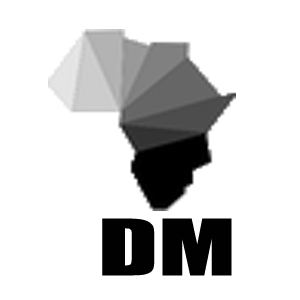
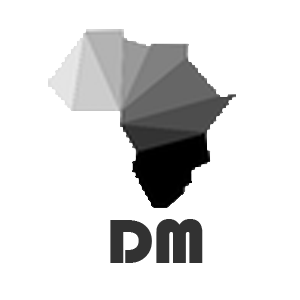
image size reduces.

diff --git a/index.html b/index.html
@@ -152,24 +152,24 @@
 
          <div class="col-sm-6 col-md-3 col-lg-3 schooling">
           <div class="portfolio-item">
-            <div class="hover-bg"> <a href="img/portfolio/schools/003.jpg" rel="prettyPhoto">
+            <div class="hover-bg"> <a href="img/portfolio/schools/003B.jpg" rel="prettyPhoto">
               <div class="hover-text">
                 <h4>SCHOOLING</h4>
                 <!-- <small>Data Science</small> -->
                 <div class="clearfix"></div>
               </div>
-              <img src="img/portfolio/schools/003.jpg" class="img-responsive" alt="There is power in learning"> </a> </div>
+              <img src="img/portfolio/schools/003B.jpg" class="img-responsive" alt="There is power in learning"> </a> </div>
           </div>
         </div>
         <div class="col-sm-6 col-md-3 col-lg-3 hospital">
           <div class="portfolio-item">
-            <div class="hover-bg"> <a href="img/portfolio/hospital/001.jpg" rel="prettyPhoto">
+            <div class="hover-bg"> <a href="img/portfolio/hospital/001B.jpg" rel="prettyPhoto">
               <div class="hover-text">
                 <h4>Hospital</h4>
                 <!-- <small>Project</small> -->
                 <div class="clearfix"></div>
               </div>
-              <img src="img/portfolio/hospital/001.jpg" class="img-responsive" alt="Life.❤"> </a> </div>
+              <img src="img/portfolio/hospital/001B.jpg" class="img-responsive" alt="Life.❤"> </a> </div>
           </div>
         </div>
         <div class="col-sm-6 col-md-3 col-lg-3 electronics">
@@ -185,68 +185,68 @@
         </div>
         <div class="col-sm-6 col-md-3 col-lg-3 schooling">
           <div class="portfolio-item">
-            <div class="hover-bg"> <a href="img/portfolio/schools/w2.jpg" rel="prettyPhoto">
+            <div class="hover-bg"> <a href="img/portfolio/schools/w2B.jpg" rel="prettyPhoto">
               <div class="hover-text">
                 <h4>SCHOOLING</h4>
                 <!-- <small>Data Science</small> -->
                 <div class="clearfix"></div>
               </div>
-              <img src="img/portfolio/schools/w2.jpg" class="img-responsive" alt="There is power in learning"> </a> </div>
+              <img src="img/portfolio/schools/w2B.jpg" class="img-responsive" alt="There is power in learning"> </a> </div>
           </div>
         </div>
         <div class="col-sm-6 col-md-3 col-lg-3 charity">
           <div class="portfolio-item">
-            <div class="hover-bg"> <a href="img/portfolio/charity/S5.jpg" rel="prettyPhoto">
+            <div class="hover-bg"> <a href="img/portfolio/charity/s5.jpg" rel="prettyPhoto">
               <div class="hover-text">
                 <h4>CHARITY</h4>
                 <!-- <small>Web development</small> -->
                 <div class="clearfix"></div>
               </div>
-              <img src="img/portfolio/charity/S5.jpg" class="img-responsive" alt="Charity is power"> </a> </div>
+              <img src="img/portfolio/charity/s5.jpg" class="img-responsive" alt="Charity is power"> </a> </div>
           </div>
         </div>
         <div class="col-sm-6 col-md-3 col-lg-3 hospital">
           <div class="portfolio-item">
-            <div class="hover-bg"> <a href="img/portfolio/hospital/003.jpg" rel="prettyPhoto">
+            <div class="hover-bg"> <a href="img/portfolio/hospital/003B.jpg" rel="prettyPhoto">
               <div class="hover-text">
                 <h4>Hospital</h4>
                 <!-- <small>Project</small> -->
                 <div class="clearfix"></div>
               </div>
-              <img src="img/portfolio/hospital/003.jpg" class="img-responsive" alt="Life.❤"> </a> </div>
+              <img src="img/portfolio/hospital/003B.jpg" class="img-responsive" alt="Life.❤"> </a> </div>
           </div>
         </div>
         <div class="col-sm-6 col-md-3 col-lg-3 electronics">
           <div class="portfolio-item">
-            <div class="hover-bg"> <a href="img/portfolio/electronics/003.jpg" rel="prettyPhoto">
+            <div class="hover-bg"> <a href="img/portfolio/electronics/003B.jpg" rel="prettyPhoto">
               <div class="hover-text">
                 <h4>ELECTRONICS</h4>
                 <!-- <small>App Development</small> -->
                 <div class="clearfix"></div>
               </div>
-              <img src="img/portfolio/electronics/003.jpg" class="img-responsive" alt="Future of electronics"> </a> </div>
+              <img src="img/portfolio/electronics/003B.jpg" class="img-responsive" alt="Future of electronics"> </a> </div>
           </div>
         </div>
         <div class="col-sm-6 col-md-3 col-lg-3 charity">
           <div class="portfolio-item">
-            <div class="hover-bg"> <a href="img/portfolio/charity/8.jpg" rel="prettyPhoto">
+            <div class="hover-bg"> <a href="img/portfolio/charity/8B.jpg" rel="prettyPhoto">
               <div class="hover-text">
                 <h4>CHARITY</h4>
                 <!-- <small>WebApp designing</small> -->
                 <div class="clearfix"></div>
               </div>
-              <img src="img/portfolio/charity/8.jpg" class="img-responsive" alt="Charity is power"> </a> </div>
+              <img src="img/portfolio/charity/8B.jpg" class="img-responsive" alt="Charity is power"> </a> </div>
           </div>
         </div>
         <div class="col-sm-6 col-md-3 col-lg-3 electronics">
           <div class="portfolio-item">
-            <div class="hover-bg"> <a href="img/portfolio/electronics/001.jpg" rel="prettyPhoto">
+            <div class="hover-bg"> <a href="img/portfolio/electronics/001B.jpg" rel="prettyPhoto">
               <div class="hover-text">
                 <h4>ELECTRONICS</h4>
                 <!-- <small>App Development</small> -->
                 <div class="clearfix"></div>
               </div>
-              <img src="img/portfolio/electronics/001.jpg" class="img-responsive" alt="Future of electronics"> </a> </div>
+              <img src="img/portfolio/electronics/001B.jpg" class="img-responsive" alt="Future of electronics"> </a> </div>
           </div>
         </div>
         <div class="col-sm-6 col-md-3 col-lg-3 schooling">
@@ -262,61 +262,61 @@
         </div>
         <div class="col-sm-6 col-md-3 col-lg-3 estate">
           <div class="portfolio-item">
-            <div class="hover-bg"> <a href="img/portfolio/estate/005.jpg" rel="prettyPhoto">
+            <div class="hover-bg"> <a href="img/portfolio/estate/005B.jpg" rel="prettyPhoto">
               <div class="hover-text">
                 <h4>ESTATE</h4>
                 <!-- <small>Website services</small> -->
                 <div class="clearfix"></div>
               </div>
-              <img src="img/portfolio/estate/005.jpg" class="img-responsive" alt="Estate in our vision"> </a> </div>
+              <img src="img/portfolio/estate/005B.jpg" class="img-responsive" alt="Estate in our vision"> </a> </div>
           </div>
         </div>
 
         <div class="col-sm-6 col-md-3 col-lg-3 charity">
           <div class="portfolio-item">
-            <div class="hover-bg"> <a href="img/portfolio/charity/h4.jpg" rel="prettyPhoto">
+            <div class="hover-bg"> <a href="img/portfolio/charity/h4B.jpg" rel="prettyPhoto">
               <div class="hover-text">
                 <h4>CHARITY</h4>
                 <!-- <small>WebApp designing</small> -->
                 <div class="clearfix"></div>
               </div>
-              <img src="img/portfolio/charity/h4.jpg" class="img-responsive" alt="Charity is power"> </a> </div>
+              <img src="img/portfolio/charity/h4B.jpg" class="img-responsive" alt="Charity is power"> </a> </div>
           </div>
         </div>
 
 
         <div class="col-sm-6 col-md-3 col-lg-3 electronics">
           <div class="portfolio-item">
-            <div class="hover-bg"> <a href="img/portfolio/electronics/002.jpg" rel="prettyPhoto">
+            <div class="hover-bg"> <a href="img/portfolio/electronics/002B.jpg" rel="prettyPhoto">
               <div class="hover-text">
                 <h4>ELECTRONICS</h4>
                 <!-- <small>App Development</small> -->
                 <div class="clearfix"></div>
               </div>
-              <img src="img/portfolio/electronics/002.jpg" class="img-responsive" alt="Future of electronics"> </a> </div>
+              <img src="img/portfolio/electronics/002B.jpg" class="img-responsive" alt="Future of electronics"> </a> </div>
           </div>
         </div>
 
         <div class="col-sm-6 col-md-3 col-lg-3 schooling">
           <div class="portfolio-item">
-            <div class="hover-bg"> <a href="img/portfolio/schools/S4.jpg" rel="prettyPhoto">
+            <div class="hover-bg"> <a href="img/portfolio/schools/s4.jpg" rel="prettyPhoto">
               <div class="hover-text">
                 <h4>SCHOOLING</h4>
                 <!-- <small>Organized service</small> -->
                 <div class="clearfix"></div>
               </div>
-              <img src="img/portfolio/schools/S4.jpg" class="img-responsive" alt="There is power in learnings"> </a> </div>
+              <img src="img/portfolio/schools/s4.jpg" class="img-responsive" alt="There is power in learnings"> </a> </div>
           </div>
         </div>
         <div class="col-sm-6 col-md-3 col-lg-3 estate">
           <div class="portfolio-item">
-            <div class="hover-bg"> <a href="img/portfolio/estate/004.jpg" rel="prettyPhoto">
+            <div class="hover-bg"> <a href="img/portfolio/estate/004B.jpg" rel="prettyPhoto">
               <div class="hover-text">
                 <h4>ESTATE</h4>
                 <!-- <small>Website services</small> -->
                 <div class="clearfix"></div>
               </div>
-              <img src="img/portfolio/estate/004.jpg" class="img-responsive" alt="Estate in our vision"> </a> </div>
+              <img src="img/portfolio/estate/004B.jpg" class="img-responsive" alt="Estate in our vision"> </a> </div>
           </div>
         </div>
         <div class="col-sm-6 col-md-3 col-lg-3 charity">
@@ -333,71 +333,71 @@
 
         <div class="col-sm-6 col-md-3 col-lg-3 schooling">
           <div class="portfolio-item">
-            <div class="hover-bg"> <a href="img/portfolio/schools/001.jpg" rel="prettyPhoto">
+            <div class="hover-bg"> <a href="img/portfolio/schools/001B.jpg" rel="prettyPhoto">
               <div class="hover-text">
                 <h4>SCHOOLING</h4>
                 <!-- <small>Data Science</small> -->
                 <div class="clearfix"></div>
               </div>
-              <img src="img/portfolio/schools/001.jpg" class="img-responsive" alt="There is power in learning"> </a> </div>
+              <img src="img/portfolio/schools/001B.jpg" class="img-responsive" alt="There is power in learning"> </a> </div>
           </div>
         </div>
 
         <div class="col-sm-6 col-md-3 col-lg-3 electronics">
           <div class="portfolio-item">
-            <div class="hover-bg"> <a href="img/portfolio/electronics/004.jpg" rel="prettyPhoto">
+            <div class="hover-bg"> <a href="img/portfolio/electronics/004B.jpg" rel="prettyPhoto">
               <div class="hover-text">
                 <h4>ELECTRONICS</h4>
                 <!-- <small>App Development</small> -->
                 <div class="clearfix"></div>
               </div>
-              <img src="img/portfolio/electronics/004.jpg" class="img-responsive" alt="Future of electronics"> </a> </div>
+              <img src="img/portfolio/electronics/004B.jpg" class="img-responsive" alt="Future of electronics"> </a> </div>
           </div>
         </div>
         <div class="col-sm-6 col-md-3 col-lg-3 estate">
           <div class="portfolio-item">
-            <div class="hover-bg"> <a href="img/portfolio/estate/001.jpg" rel="prettyPhoto">
+            <div class="hover-bg"> <a href="img/portfolio/estate/001B.jpg" rel="prettyPhoto">
               <div class="hover-text">
                 <h4>ESTATE</h4>
                 <!-- <small>Website services</small> -->
                 <div class="clearfix"></div>
               </div>
-              <img src="img/portfolio/estate/001.jpg" class="img-responsive" alt="Estate in our vision"> </a> </div>
+              <img src="img/portfolio/estate/001B.jpg" class="img-responsive" alt="Estate in our vision"> </a> </div>
           </div>
         </div>
         <div class="col-sm-6 col-md-3 col-lg-3 charity">
           <div class="portfolio-item">
-            <div class="hover-bg"> <a href="img/portfolio/charity/featured-img2.jpg" rel="prettyPhoto">
+            <div class="hover-bg"> <a href="img/portfolio/charity/featured-img2B.jpg" rel="prettyPhoto">
               <div class="hover-text">
                 <h4>CHARITY</h4>
                 <!-- <small>WebApp designing</small> -->
                 <div class="clearfix"></div>
               </div>
-              <img src="img/portfolio/charity/featured-img2.jpg" class="img-responsive" alt="Charity is power"> </a> </div>
+              <img src="img/portfolio/charity/featured-img2B.jpg" class="img-responsive" alt="Charity is power"> </a> </div>
           </div>
         </div>
 
          <div class="col-sm-6 col-md-3 col-lg-3 schooling">
           <div class="portfolio-item">
-            <div class="hover-bg"> <a href="img/portfolio/schools/002.jpg" rel="prettyPhoto">
+            <div class="hover-bg"> <a href="img/portfolio/schools/002B.jpg" rel="prettyPhoto">
               <div class="hover-text">
                 <h4>SCHOOLING</h4>
                 <!-- <small>Data Science</small> -->
                 <div class="clearfix"></div>
               </div>
-              <img src="img/portfolio/schools/002.jpg" class="img-responsive" alt="There is power in learning"> </a> </div>
+              <img src="img/portfolio/schools/002B.jpg" class="img-responsive" alt="There is power in learning"> </a> </div>
           </div>
         </div>
 
         <div class="col-sm-6 col-md-3 col-lg-3 estate">
           <div class="portfolio-item">
-            <div class="hover-bg"> <a href="img/portfolio/estate/007.jpg" rel="prettyPhoto">
+            <div class="hover-bg"> <a href="img/portfolio/estate/007B.jpg" rel="prettyPhoto">
               <div class="hover-text">
                 <h4>ESTATE</h4>
                 <!-- <small>Website services</small> -->
                 <div class="clearfix"></div>
               </div>
-              <img src="img/portfolio/estate/007.jpg" class="img-responsive" alt="Estate in our vision"> </a> </div>
+              <img src="img/portfolio/estate/007B.jpg" class="img-responsive" alt="Estate in our vision"> </a> </div>
           </div>
         </div>
       </div>
@@ -415,7 +415,7 @@
       <p>We have a choice, whether to be a mad man or a bold genius. What’s the difference? A mad man is somebody who does the same action over and over and over for an unknown destiny. A bold genius is somebody who does the same action over and over and over again for a known destiny.</p>
     </div>
     <div class="row">
-      	<div class="col-md-6"> <img draggable="false" src="img/about/airway1.jpg" class="img-responsive"> </div>
+      	<div class="col-md-6"> <img draggable="false" src="img/about/airway1B.jpg" class="img-responsive"> </div>
       	<div class="col-md-6">
         	<div class="about-text" style="padding-top: 20%">
         		<span >
@@ -434,10 +434,10 @@
           		</span>
         	</div>
       	</div>
-      	<div class="col-md-6"> <img draggable="false" src="img/about/Hospital.jpg" class="img-responsive"> </div>
+      	<div class="col-md-6"> <img draggable="false" src="img/about/hospital.jpg" class="img-responsive"> </div>
     </div><br><br><br>
     <div class="row">
-      	<div class="col-md-6"> <img draggable="false" src="img/about/electr.jpg" class="img-responsive"> </div>
+      	<div class="col-md-6"> <img draggable="false" src="img/about/electrB.jpg" class="img-responsive"> </div>
       	<div class="col-md-6">
         	<div class="about-text" style="padding-top: 20%">
         		<span >
@@ -456,11 +456,11 @@
           		</span>
         	</div>
       	</div>
-      	<div class="col-md-6"> <img draggable="false" src="img/about/estate.jpg" class="img-responsive"> </div>
+      	<div class="col-md-6"> <img draggable="false" src="img/about/estateB.jpg" class="img-responsive"> </div>
     </div><br><br><br>	
 
     <div class="row">
-        <div class="col-md-6"> <img draggable="false" src="img/about/school.jpg" class="img-responsive"> </div>
+        <div class="col-md-6"> <img draggable="false" src="img/about/schoolB.jpg" class="img-responsive"> </div>
         <div class="col-md-6">
           <div class="about-text" style="padding-top: 20%">
             <span >
@@ -479,7 +479,7 @@
               </span>
           </div>
         </div>
-        <div class="col-md-6"> <img draggable="false" src="img/about/charity.jpg" class="img-responsive"> </div>
+        <div class="col-md-6"> <img draggable="false" src="img/about/charityB.jpg" class="img-responsive"> </div>
     </div><br><br><br>
 
   </div>
@@ -515,38 +515,38 @@
       <p>This is the lead team behind all the Dream Manifaste we make. Only Dream People Can Make Dreams Posible.</p>
     </div>
     <div id="row">
-        <div class="col-md-3 col-sm-6 team">
-        <div class="thumbnail"> <img src="img/team/thierry.jpg" alt="..." class="img-circle team-img">
+      <div class="col-md-3 col-sm-6 team">
+        <div class="thumbnail"> <img src="img/team/mbonyi.jpg" alt="..." class="img-circle team-img">
           <div class="caption">
             <h3>MBONYI Frank</h3>
-            <p>Chief Executive Officer & CFO</p>
+            <p>Co-Founder & Chief Executive Officer</p>
             <!-- <p>Lorem ipsum dolor sit amet, consectetur adipiscing elit.</p> -->
           </div>
         </div>
       </div>
       <div class="col-md-3 col-sm-6 team">
-        <div class="thumbnail"> <img src="img/team/thierry.jpg" alt="..." class="img-circle team-img">
+          <div class="thumbnail"> <img src="img/team/thierry.JPG" alt="..." class="img-circle team-img">
           <div class="caption">
             <h3>MFITEYESU MANZI Thierry</h3>
-            <p>CEO</p>
+            <p>Co-Founder & Chief Techinical Officer</p>
             <!-- <p>Lorem ipsum dolor sit amet, consectetur adipiscing elit.</p> -->
           </div>
         </div>
       </div>
       <div class="col-md-3 col-sm-6 team">
-        <div class="thumbnail"> <img src="img/team/thierry.jpg" alt="..." class="img-circle team-img">
+        <div class="thumbnail"> <img src="img/team/profile.svg" alt="..." class="img-circle team-img">
           <div class="caption">
             <h3>ISHIMWE Arnold</h3>
-            <p>Digital Marketing Manager</p>
+            <p>CFO & Marketing Manager</p>
             <!-- <p>Lorem ipsum dolor sit amet, consectetur adipiscing elit.</p> -->
           </div>
         </div>
       </div>
       <div class="col-md-3 col-sm-6 team">
-        <div class="thumbnail"> <img src="img/team/thierry.jpg" alt="..." class="img-circle team-img">
+        <div class="thumbnail"> <img src="img/team/profile.svg" alt="..." class="img-circle team-img">
           <div class="caption">
             <h3>NTABWOBA Isaac</h3>
-            <p>CTO / Developer</p>
+            <p>Head of Software Department</p>
             <!-- <p>Lorem ipsum dolor sit amet, consectetur adipiscing elit.</p> -->
           </div>
         </div>
@@ -628,11 +628,11 @@
 </div>
 
 <!-- jQuery (necessary for Bootstrap's JavaScript plugins) --> 
-<script src="../ajax.googleapis.com/ajax/libs/jquery/1.11.1/jquery.min.js"></script> 
+<!-- <script src="../ajax.googleapis.com/ajax/libs/jquery/1.11.1/jquery.min.js"></script>  -->
 <script type="text/javascript" src="js/jquery.1.11.1.js"></script> 
 <!-- Include all compiled plugins (below), or include individual files as needed --> 
 <script type="text/javascript" src="js/bootstrap.js"></script> 
-<script type="text/javascript" src="js/SmoothScroll.js"></script> 
+<!-- <script type="text/javascript" src="js/SmoothScroll.js"></script>  -->
 <script type="text/javascript" src="js/jquery.counterup.js"></script> 
 <script type="text/javascript" src="js/waypoints.js"></script> 
 <script type="text/javascript" src="js/jquery.prettyPhoto.js"></script> 

diff --git a/css/style.css b/css/style.css
@@ -133,7 +133,7 @@ hr {
 /* Home Style */
 header {
 	/*background: linear-gradient( rgba(0, 0, 0, 0.5), rgba(0, 0, 0, 0.5) ), url(../img/desk.jpg) no-repeat bottom right;*/
-	background: linear-gradient( rgba(0, 0, 0, 0.5), rgba(0, 0, 0, 0.5) ), url(https://firebasestorage.googleapis.com/v0/b/dm-group-e2557.appspot.com/o/start.jpg?alt=media&token=39117a51-a406-46a4-a335-ead1ba8596b4) no-repeat bottom right;
+	background: linear-gradient( rgba(0, 0, 0, 0.5), rgba(0, 0, 0, 0.5) ), url('../img/startB.jpg') no-repeat bottom right;
 	background-size: cover;
 	color: #cfcfcf;
 	position: relative;
@@ -335,6 +335,7 @@ img.img-circle.team-img {
 	border: 4px solid transparent;
 	transition: all 0.5s;
     border: 1px #CCC solid;
+    object-fit: cover;
 }
 #team-section .team .thumbnail:hover>img.img-circle.team-img {
 	border: 4px solid #fff;
